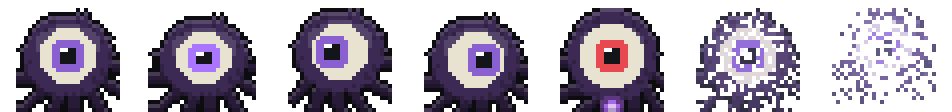
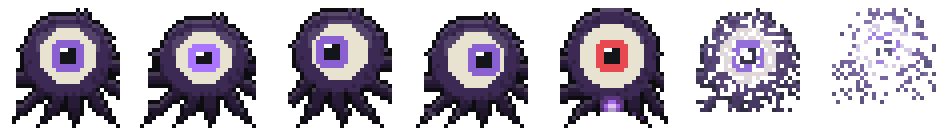
shadoweye: 칸 바닥에 잘린 촉수를 끝까지
촉수가 칸 바닥에서 평평하게 잘려 있었다(앞 판은 1칸 선을 덧대 끝이 뭉치고 더 끊겨 보였다).
칸을 5줄 늘리고(28→33) 바닥에 닿은 촉수만 하나씩 떼어, 테두리를 지킨 채 한 줄에 1칸(폭 5 넘으면
2칸)씩 가늘어져 1칸 끝으로 닫는다. 몸 가운데 기준 바깥쪽으로 벌려 서로 붙지 않게 한다.
검사: 다섯 칸 칸 바닥 비었음 · 촉수 끝 폭 1 · 양옆 테두리 · 덩어리 1개 · 새 줄에서 촉수끼리 안 붙음 ·
게임이 잰 발 = 매니페스트.

Claude-Session: https://claude.ai/code/session_015bTXkb4q3SzK7wZ8JdbtYP

diff --git a/game/assets/sprites-manifest.js b/game/assets/sprites-manifest.js
@@ -819,10 +819,10 @@ window.SPRITE_MANIFEST = {
       "shadoweye": {
         "file": "char/shadoweye.png",
         "frameW": 34,
-        "frameH": 28,
+        "frameH": 33,
         "count": 7,
-        "foot": -0.75,
-        "side": 0
+        "foot": 0.25,
+        "side": -0.5
       },
       "frostling": {
         "file": "char/frostling.png",
